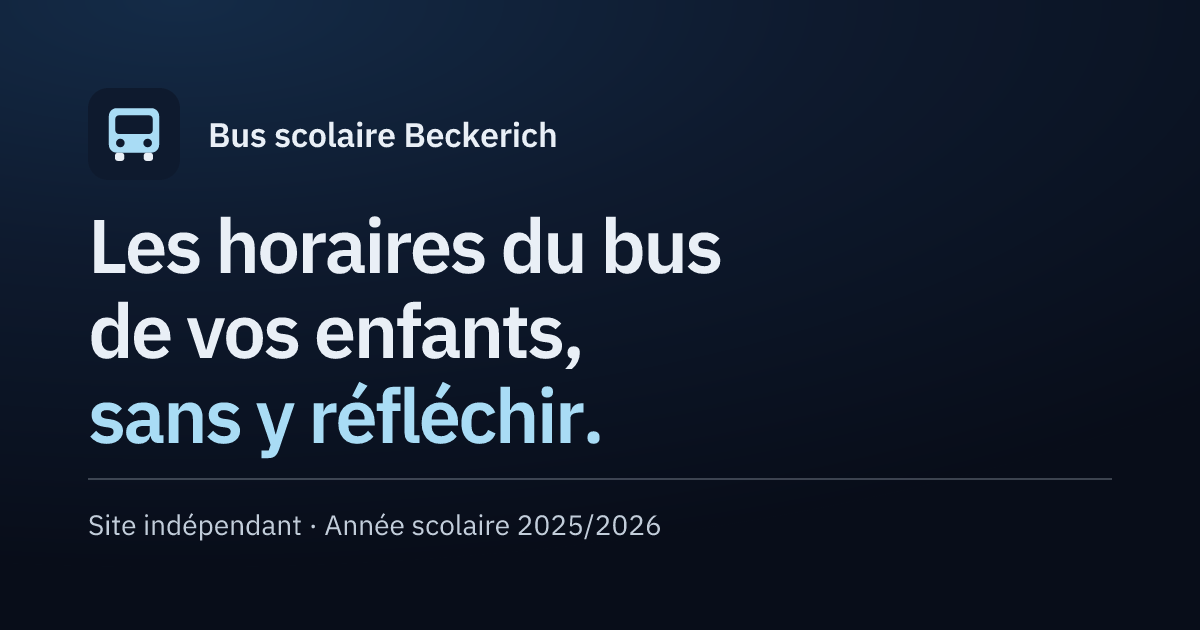
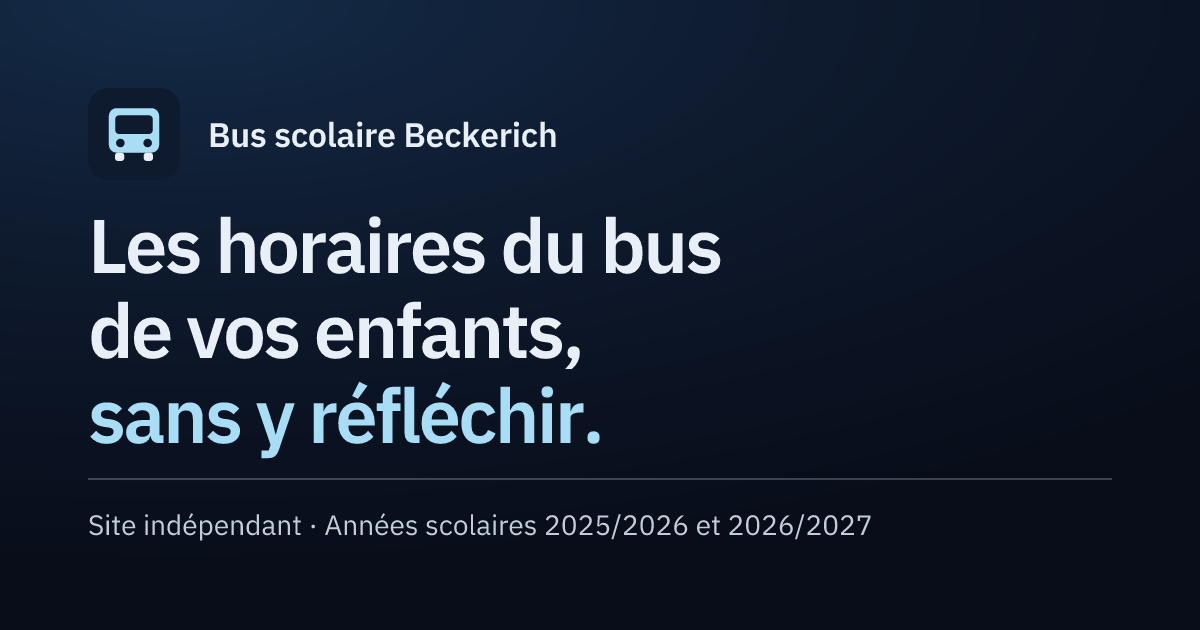
La vitrine mène désormais à l'application
`APP_PUBLIEE` passe à `true`. L'application est en ligne et en service réel — un
représentant de l'école y a publié de vraies perturbations le 9 août. La page continuait
de dire « bientôt disponible » devant des captures d'un logiciel qui tourne.

Les boutons, le QR, les entrées de pied de page et le `SoftwareApplication` du balisage
structuré reviennent tous en même temps, aux endroits prévus. Les vignettes de partage sont
régénérées : elles portent l'étiquette du héros, qui nomme maintenant les deux années.
`assets:qr` est resté sans effet, `URL_APP` n'ayant pas changé.

Deux choses que l'interrupteur ne couvrait pas sont réglées, et l'une cesse d'être une
affaire de mémoire :

  - le `<noscript>` d'`index.html` nomme de nouveau l'application, et un test vérifie
    désormais qu'il le fait si et seulement si `APP_PUBLIEE` le dit. Le README le
    désignait comme le seul angle mort de l'interrupteur ; il ne l'est plus ;
  - le test « aucune page ne mène à l'application » devient conscient de la page. En
    l'état il exigeait un lien de TOUTE page une fois l'interrupteur ouvert — or les
    mentions légales n'ont ni pied de page ni appel à l'action. La bascule armait donc une
    construction cassée pour le jour où l'adresse de l'éditeur serait renseignée. Corrigé
    maintenant, tant que c'est bon marché.

RÉSERVE, et elle change de nature avec cette révision : le luxembourgeois n'a toujours pas
[…]

Changed region(s): [[0.3392, 0.8143, 0.74, 0.8746]]

diff --git a/src/config.ts b/src/config.ts
@@ -28,10 +28,14 @@ export const URL_APP = 'https://sashimee.github.io/bus-scolaire-beckerich'
  * aux mêmes endroits, dans les mêmes mots. Les deux états sont testés (`src/tests/`) :
  * il n'existe pas d'état intermédiaire où la moitié des liens serait revenue.
  *
- * Ce que cet interrupteur ne couvre PAS, faute d'être du code : le `<noscript>` de
- * `index.html`, qui est du HTML statique. Il ne nomme donc plus l'application du tout.
+ * Ce que cet interrupteur ne couvre pas lui-même, faute d'être du code : le `<noscript>`
+ * de `index.html`, qui est du HTML statique. Un test tient désormais l'invariant à sa
+ * place (`rendu.test.ts`), de sorte que les deux ne peuvent plus se contredire.
+ *
+ * Passée à `true` le jour où l'application est devenue publique : elle est en ligne et en
+ * service réel — un représentant de l'école y a publié de vraies perturbations.
  */
-export const APP_PUBLIEE = false
+export const APP_PUBLIEE = true
 
 /**
  * La source officielle. Elle n'est pas décorative : le site est indépendant de la

diff --git a/index.html b/index.html
@@ -45,7 +45,9 @@
     <noscript>
       <p>
         Cette page se lit sans JavaScript, mais les animations et le changement de langue en
-        demandent. Le plan officiel de la commune est sur
+        demandent. L'application est sur
+        <a href="https://sashimee.github.io/bus-scolaire-beckerich">sashimee.github.io</a>, et le
+        plan officiel de la commune sur
         <a href="https://kanner.beckerich.lu/infos/horaires-de-bus">kanner.beckerich.lu</a>.
       </p>
     </noscript>

diff --git a/README.md b/README.md
@@ -36,12 +36,48 @@ npm run jetons:reprendre   # les reprendre depuis l'application
 npm run chiffres           # régénérer src/contenu/chiffres.ts depuis les données
 npm run assets:qr          # régénérer le QR vers URL_APP
 npm run assets:partage     # régénérer les vignettes de partage et les icônes matricielles
+npm run captures           # rephotographier l'application (voir plus bas)
 ```
+
+### Les écrans montrés sont de vraies captures
+
+Les quatre téléphones de la page contiennent des photographies de l'application, pas des
+reconstructions : `public/captures/{écran}-{langue}-{thème}.webp`, soit quatre écrans ×
+trois langues × deux thèmes = vingt-quatre fichiers, produits par `npm run captures`.
+
+Ils l'ont longtemps été. `src/composants/Ecrans.tsx` redessinait les écrans en DOM et en
+CSS, ce qui suivait le thème et la langue sans effort et ne pixellisait jamais. Mais une
+reconstruction est une deuxième source de vérité sur le même produit, et c'est la deuxième
+qui dérive : la nôtre annonçait « Étape 2 sur 4 » quand l'assistant en compte sept, plaçait
+la journée courte le mercredi quand ce sont le mardi et le jeudi, et donnait une adresse
+dans une rue qui n'existe pas. Aucun test ne pouvait le voir, faute d'avoir quoi comparer.
+
+Le script photographie le **serveur de développement de l'application**, jamais le site
+publié, et neutralise tout ce qui n'est pas reproductible : horloge figée au mardi
+22 septembre 2026 à 07:25, tuiles de carte servies depuis `scripts/fixtures/tuiles/`,
+perturbations et traductions servies vides, révision affichée fixée à celle qui est
+photographiée. Le foyer de démonstration est posé par le **lien de partage de
+l'application** — une interface publique et versionnée — et non par une clé de stockage
+recopiée ici. Son adresse est au niveau de la rue, jamais au numéro : la fiche de la
+semaine dessine le vrai voisinage sur une carte.
+
+Trois choses que le script REFUSE de laisser passer, plutôt que de produire une image qui
+a l'air d'aller : une tuile absente des fixtures, une carte modale par-dessus l'écran, un
+foyer incomplet. Il vérifie aussi le poids — 60 ko par fichier, 1,4 Mo pour l'ensemble.
+
+Les captures sont **déterministes au bit près** dans un conteneur donné, ce qui est toute
+la condition pour que l'intégration continue puisse les comparer. C'est aussi ce qui
+explique le conteneur épinglé (`mcr.microsoft.com/playwright:v…-noble`) dans
+`.github/workflows/verifier.yml` : la pile de polices et la version de Chromium décident du
+rendu au pixel près.
+
+> Les tuiles de `scripts/fixtures/tuiles/` proviennent d'OpenStreetMap et sont soumises à
+> l'ODbL. L'attribution est rendue dans l'image elle-même, par Leaflet.
 
 ### Les ressources engendrées sont commitées
 
-`public/partage*.png`, `public/apple-touch-icon.png`, `public/favicon-32.png` et
-`public/qr-application.svg` ne sont PAS produits par `npm run build`. Ils sont engendrés à
+`public/partage*.png`, `public/apple-touch-icon.png`, `public/favicon-32.png`,
+`public/qr-application.svg` et `public/captures/` ne sont PAS produits par `npm run build`. Ils sont engendrés à
 la main, puis commités — sans quoi la construction, et donc le conteneur, dépendraient de
 `satori`, de `resvg` et d'une bibliothèque de QR pour redessiner à l'identique des fichiers
 qui ne changent qu'avec le titre de la page.
@@ -116,35 +152,41 @@ le partage.
 le jour où l'application prend un domaine propre, cette ligne change, et le QR se
 régénère avec `npm run assets:qr`.
 
-### Pour l'instant, ils n'y mènent pas
+### Et maintenant, ils y mènent
 
-`APP_PUBLIEE` vaut `false` dans `src/config.ts`. Tant que c'est le cas, la vitrine
-**décrit** l'application sans conduire à elle : pas de bouton, pas de QR, pas d'entrée de
-pied de page, et pas de `SoftwareApplication` dans le balisage structuré. À leur place, une
-mention « bientôt disponible » dans le héros et dans la section finale, et un renvoi vers
-le plan officiel de la commune — la seule source qui existe aujourd'hui.
+`APP_PUBLIEE` vaut `true` dans `src/config.ts`. L'application est en ligne et en service
+réel — un représentant de l'école y a publié de vraies perturbations. Les boutons, le QR,
+les entrées de pied de page et le `SoftwareApplication` du balisage structuré sont donc
+revenus, tous en même temps, aux endroits où ils étaient prévus.
 
-Le jour de la publication, cette ligne passe à `true` et tout revient d'un coup, aux mêmes
-endroits, dans les mêmes mots. Deux choses restent alors à faire à la main, parce qu'elles
-ne sont pas du code :
+L'interrupteur reste un interrupteur : le repasser à `false` retire tout d'un coup, et les
+deux états sont toujours testés (`src/tests/rendu.test.ts`). Le risque que ces tests
+couvrent n'est pas le tri d'aujourd'hui, c'est la section ajoutée dans six mois.
 
-- le `<noscript>` d'`index.html`, qui ne nomme plus l'application ;
-- le lien de la maquette, s'il change d'adresse (`npm run assets:qr`).
+Deux choses n'étaient pas du code et devaient être faites à la main le jour de la
+publication : le `<noscript>` d'`index.html`, et la régénération du QR. La première est
+faite — et **elle n'est plus une affaire de mémoire** : un test vérifie désormais que le
+`<noscript>` nomme l'application si et seulement si `APP_PUBLIEE` le dit. La seconde s'est
+révélée sans effet, `URL_APP` n'ayant pas changé.
 
-Les deux états sont testés. `src/tests/rendu.test.ts` vérifie qu'aucune page rendue ne
-contient `URL_APP` tant que l'interrupteur est fermé, et que les appels à l'action
-reviennent quand il s'ouvre — le risque n'est pas le tri d'aujourd'hui, c'est la section
-ajoutée dans six mois qui reprendrait un lien d'un ancien exemple.
-
-Une nuance à connaître : l'adresse de l'application reste présente dans le paquet
-JavaScript, comme donnée de configuration. Aucun lien n'y mène et aucune page ne l'affiche,
-mais elle est lisible par qui ouvre le fichier. Elle l'est de toute façon dans ce dépôt.
+Une nuance à connaître : l'adresse de l'application était déjà présente dans le paquet
+JavaScript avant la publication, comme donnée de configuration — lisible par qui ouvrait le
+fichier, même si aucun lien n'y menait. Elle l'est de toute façon dans ce dépôt.
 
 ## Réserves ouvertes
 
 - **La traduction luxembourgeoise n'a pas été relue par une personne dont c'est la langue
   maternelle.** C'est la langue du foyer dans une bonne part de la commune ; une tournure
-  fausse s'y remarque immédiatement. À faire relire avant toute mise en ligne publique.
+  fausse s'y remarque immédiatement.
+  Cette réserve a changé de nature : `APP_PUBLIEE` vaut désormais `true`, donc la page est
+  en ligne et mène à l'application. Ce qui était « à faire relire avant publication » est
+  maintenant **publié sans relecture**, devant le public le plus à même de le remarquer.
+  C'est la réserve la plus urgente des cinq.
+- **Les captures n'ont été produites que sur une machine.** Elles sont reproductibles au
+  bit près ici, trois exécutions de suite ; la comparaison en intégration continue, elle,
+  n'a jamais tourné. Si elle échoue au premier passage, la cause la plus probable est
+  l'écart entre le Chromium du conteneur et celui d'ici — dans ce cas, régénérer les
+  captures DANS le conteneur et commiter ce résultat-là.
 - **Les largeurs étroites ont été mesurées dans un moteur de rendu, pas sur un appareil.**
   La page a été ouverte dans Chromium à 320, 360, 390, 414 et 768 px, en thème clair et
   sombre, dans les trois langues, avec émulation tactile — trente combinaisons. Ce que
